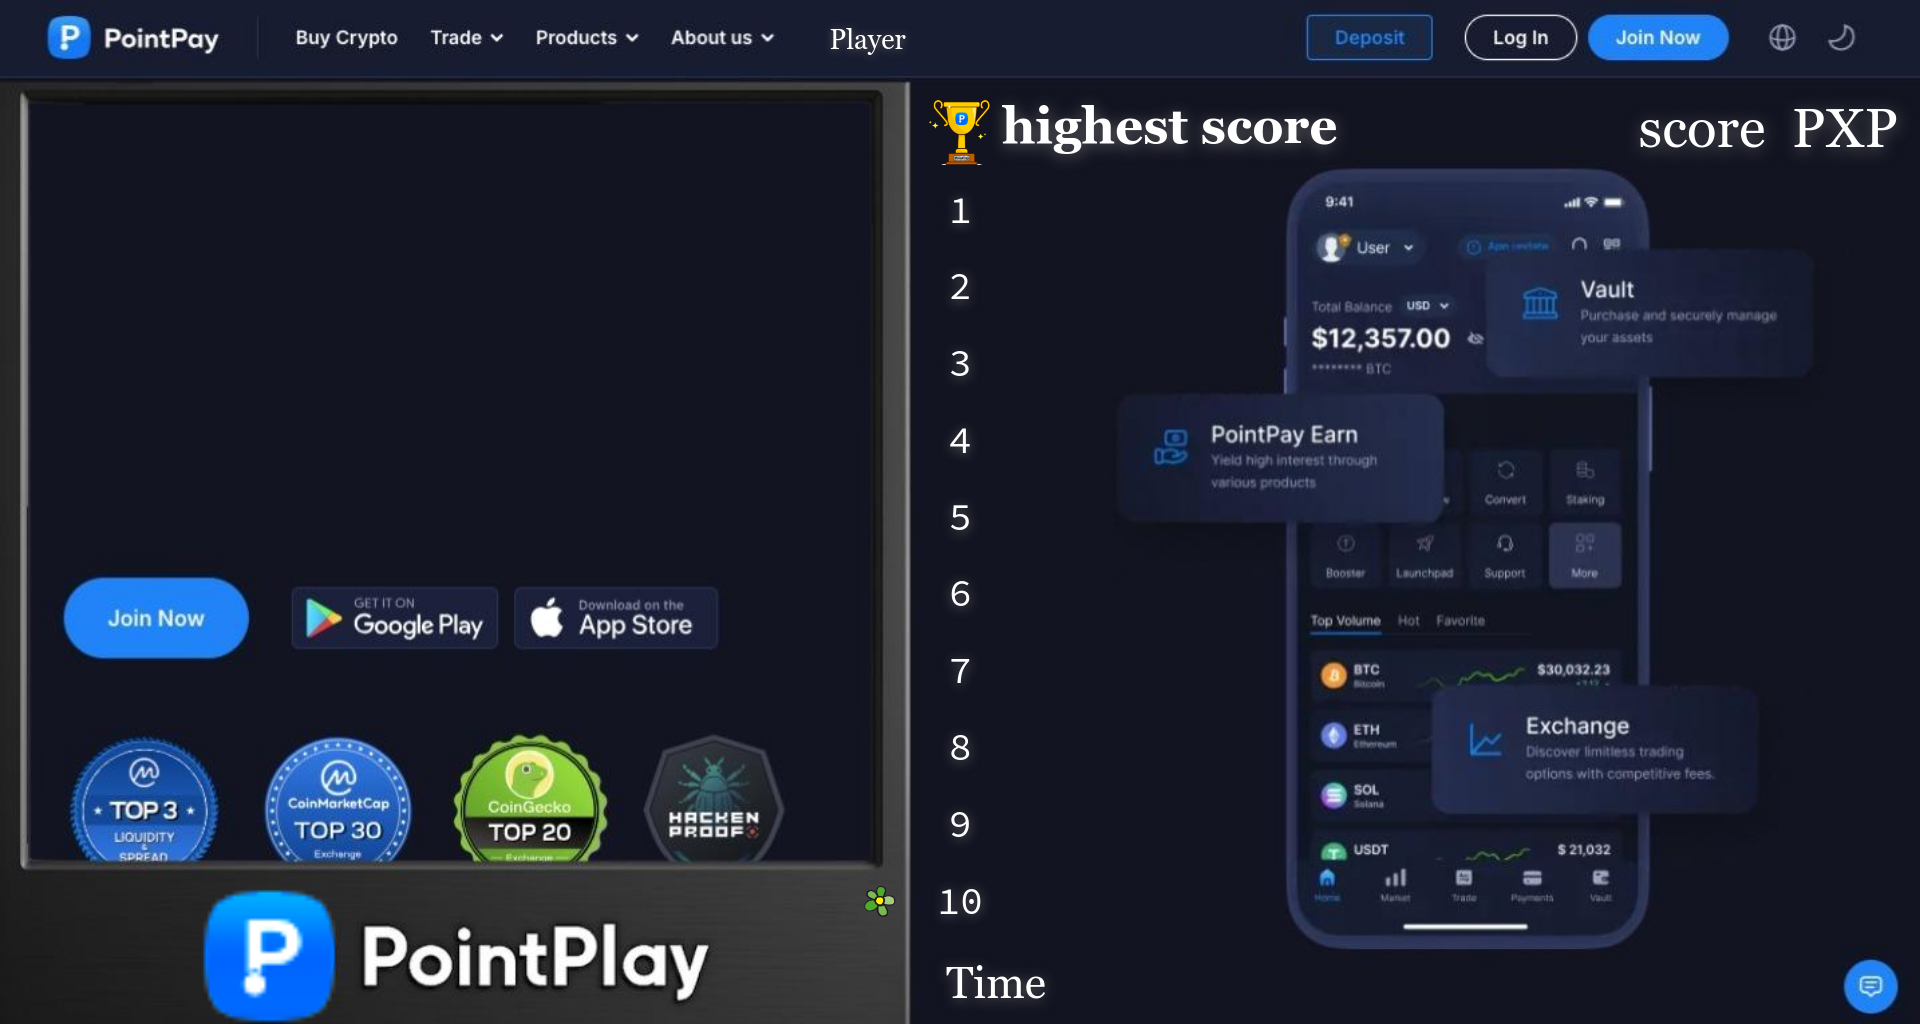
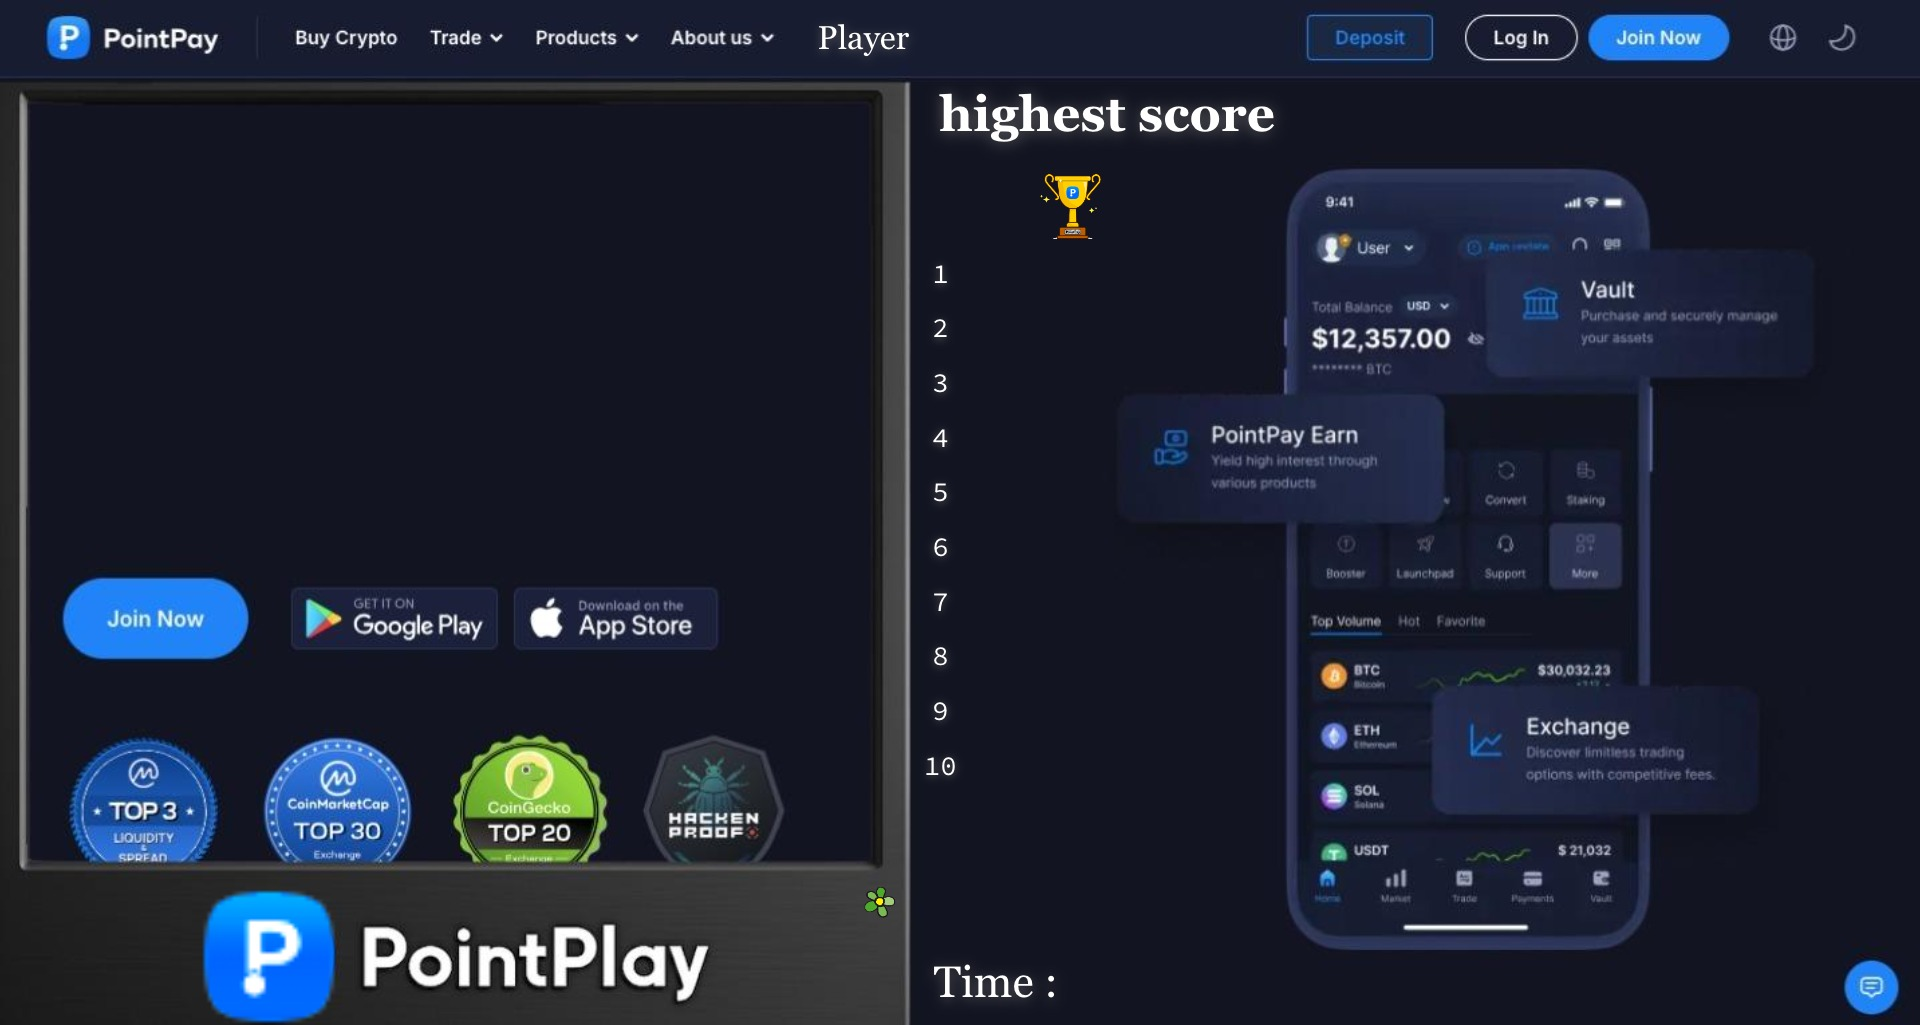
Add files via upload

diff --git a/game.js b/game.js
@@ -7,6 +7,8 @@ let ballRadius = 8;
 let dx = 4;
 let dy = -4;
 let ballLaunched = false;
+        stopTimer();
+        timerStarted = false;
 let x;
 let y;
 let paddleHeight = 10;
@@ -122,6 +124,11 @@ function draw() {
   drawPaddle();
   drawScore();
 
+  if (!timerStarted && ballLaunched) {
+    startTimer();
+    timerStarted = true;
+  }
+
   let steps = 4;
   for (let i = 0; i < steps; i++) {
     if (ballLaunched) {
@@ -143,6 +150,8 @@ function draw() {
         dy = -Math.abs(dy);
       } else {
         ballLaunched = false;
+        stopTimer();
+        timerStarted = false;
         score = 0;
         for (let c = 0; c < brickColumnCount; c++) {
           for (let r = 0; r < brickRowCount; r++) {
@@ -165,3 +174,22 @@ function draw() {
 }
 
 draw();
+
+
+// TIMER VARIABELEN
+let timerStarted = false;
+let timerInterval;
+let startTime;
+
+function startTimer() {
+  startTime = Date.now();
+  timerInterval = setInterval(() => {
+    const elapsedTime = Math.floor((Date.now() - startTime) / 1000);
+    const timerDiv = document.getElementById("timerDisplay");
+    if (timerDiv) timerDiv.textContent = elapsedTime;
+  }, 1000);
+}
+
+function stopTimer() {
+  clearInterval(timerInterval);
+}

diff --git a/index.html b/index.html
@@ -10,6 +10,7 @@
 <body>
   <canvas id="gameCanvas" width="800" height="600"></canvas>
   <div id="scoreDisplay">Score: 0 pxp</div>
+  <div id="timerDisplay" style="position: absolute; top: 72px; right: 30px; color: white; font-size: 20px; font-family: Arial, sans-serif;">0</div>
   <script src="game.js"></script>
 </body>
 </html>
